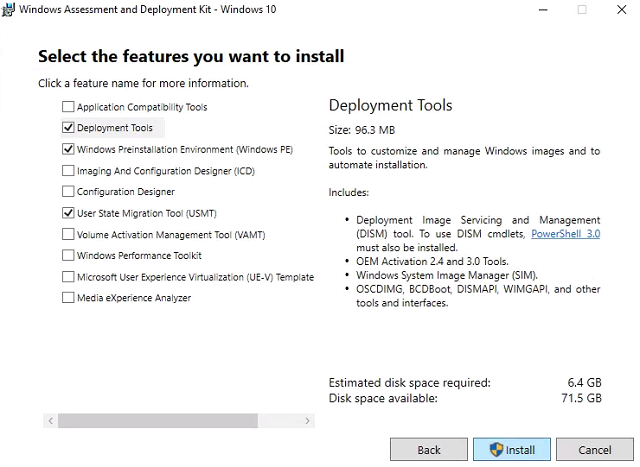
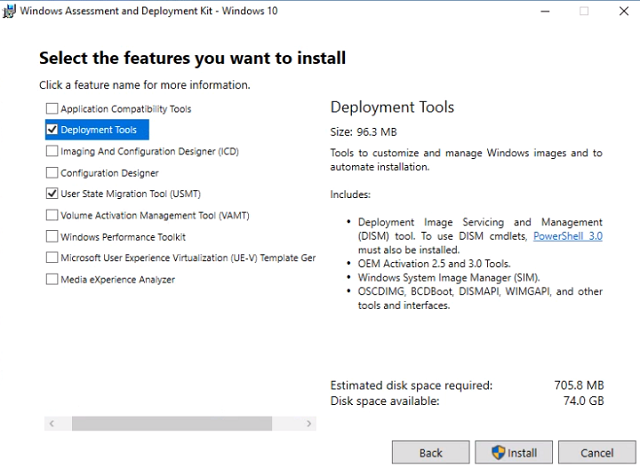
Updated OSD blog post boundary setup

diff --git a/_posts/2018-06-05-you-down-with-osd.md b/_posts/2018-06-05-you-down-with-osd.md
@@ -50,18 +50,25 @@ We need an OU for our workstations to go.  While we could use the builtin Comput
 	![domainjoin_permissions_script.PNG](/img/300/domainjoin_permissions_script.PNG)
     
 ### The Windows Assessment and Deployment Kit
-We ended the [SCCM lab setup](https://doug.seiler.us/2018-05-30-set-up-the-sccm-lab/) by updating to the latest version of Current Branch.  So we'll need to install the latest version of the Windows ADK so we're fully compatible deploying the current version of Windows 10.
+We ended the [SCCM lab setup](https://doug.seiler.us/2018-05-30-set-up-the-sccm-lab/) by updating to the latest version of Current Branch (or the latest [tech preview](https://doug.seiler.us/2019-05-27-tech-preview-lab-kit/)).  So we'll need to install the latest version of the Windows ADK so we're fully compatible deploying the current version of Windows 10.
 1. Log into the SCCM server, HYD-CM1.
 
-2. Open the _Programs and Features_ control panel, and uninstall the existing Windows Assessment and Deployment Kit - Windows 10.
+2. Open the _Programs and Features_ control panel, and uninstall the existing _Windows Assessment and Deployment Kit - Windows 10_.
 
 	![uninstall_adk.PNG](/img/300/uninstall_adk.PNG)
-3. Download the [Windows ADK](https://docs.microsoft.com/en-us/windows-hardware/get-started/adk-install) and run it.  Jonathan Lefebvre of the System Center Dudes has a [great guide on setting up the ADK](https://www.systemcenterdudes.com/how-to-update-windows-adk-on-a-sccm-server/) for SCCM.
 
-4. Accept the defaults until we reach the _Select the features you want to install_ section.  Uncheck everything except _Deployment Tools_, _Windows Preinstallation Environment (Windows PE)_, and _User State Migration Tool (USMT)_.  Click _Install_.
+3. Uninstall the existing _Windows Assessment and Deployment Kit Windows Preinstallation Environment Add-ons - Windows 10_.  Reboot _HYD-CM1_.
+
+	![uninstall_adk_winpe.PNG](/img/300/uninstall_adk_winpe.PNG)
+4. On the host system, download the latest [Windows ADK](https://docs.microsoft.com/en-us/windows-hardware/get-started/adk-install) and Windows PE add-on for the ADK.  Jonathan Lefebvre of the System Center Dudes has a [great guide on setting up the ADK](https://www.systemcenterdudes.com/how-to-update-windows-adk-on-a-sccm-server/) for SCCM.  Copy _adksetup.exe_ and _adkwinpesetup.exe_ to _HYD-CM1_.
+
+5. Run _adksetup.exe_.  Accept the defaults and click _Next_ until we reach the _Select the features you want to install_ section.  Uncheck everything except _Deployment Tools_ and _User State Migration Tool (USMT)_.  Click _Install_.  When it completes, click _Close_.
 
 	![windows_adk_features.PNG](/img/300/windows_adk_features.PNG)
-5. Once the install is complete, click _Close_.  Reboot the SCCM server.
+6. Run _adkwinpesetup.exe_.  Accept all defaults again at each screen and install.  When the install completes, click _Close_.
+
+	![windows_adkwinpe_complete.PNG](/img/300/windows_adkwinpe_complete.PNG)
+7. Once the install is complete, click _Close_.  Reboot the SCCM server.
 
 
 ## PXE
@@ -73,19 +80,25 @@ Boundaries and Boundary groups are how we logically define which sites (servers)
 
 3. Right-click _Boundaries_ and select _Create Boundary_.
 
-4. **General tab** - Set description to **PXE**.  Change _Type_ to **IP address range**.  We will use the DHCP range from the domain controller.  Set _Starting IP address_ to **10.0.0.100** and set _Ending IP address_ to **10.0.0.200**.
+4. **General tab** - Set description to **PXE**.  Change _Type_ to **IP address range**.  We will use the DHCP range from the domain controller.  Set _Starting IP address_ to **10.0.0.100** and set _Ending IP address_ to **10.0.0.200**.  Click _OK_.
 
 	![create_boundary.png](/img/300/create_boundary.png)
     
 	For reference, here is what the DHCP address pool looks like:
     
     ![dhcp_scope.png](/img/300/dhcp_scope.png)
-5. **Boundary Groups tab** - Select the _Boundary Groups_ tab. Click _Add_.  Check _Corp Boundary Group_ and click _OK_.  Click _OK_ again to create the boundary.
+5. Expand the _Administration_ -> _Hierarchy Configuration_ node and select _Boundary Groups_.  The [current branch lab](https://doug.seiler.us/2018-05-30-set-up-the-sccm-lab/) we set up has the boundary group configured already.  If we're using the [tech preview lab](https://doug.seiler.us/2019-05-27-tech-preview-lab-kit/), we need to create the boundary group manually.
+
+6. If the _Corp Boundary Group_ doesn't exist yet, click _Create Boundary Group_.  Set the name and description to **Corp Boundary Group**.  If it does exist, right-click it and select _Properties_.
+
+7. **General Tab** - Under _Boundaries..._ click _Add..._ and check our _PXE_ boundary.  Click _OK_.  Select the _References_ tab.
 
 	![create_boundary_group.png](/img/300/create_boundary_group.png)
-6. The Microsoft lab already has the boundary group created and configured, but we'll just verify the settings.  Click on _Boundary Groups_, right-click _Corp Boundary Group_ and select _Properties_.  Select the _References_ tab and confirm that _User this boundary group for site assignment_ is checked.
+8. **References Tab** - If there are not _Site system servers_ listed, click _Add_ and check _CHQ_.  Click _OK_.  Make sure _Use this boundary group for site assignment_ is checked and click _OK_.
 
+	![confirm_boundarygroup_references.png](/img/300/confirm_boundarygroup_references.png)
 	![confirm_boundary_group.PNG](/img/300/confirm_boundary_group.PNG)
+
 
 ### The Distribution Point
 In SCCM, distribution points are where workstations get their content.  This is true for OSD as well, and we need our DPs to function as PXE servers.
